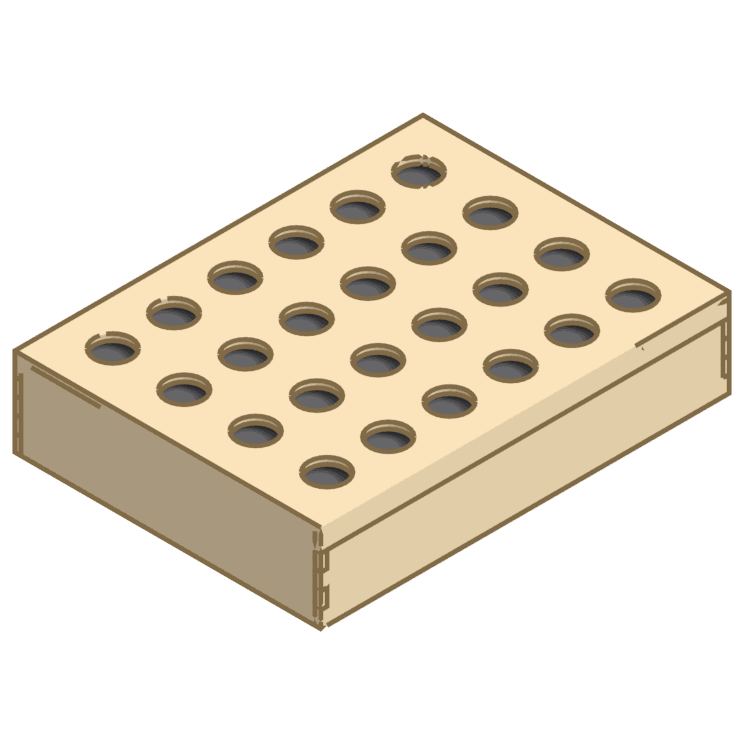
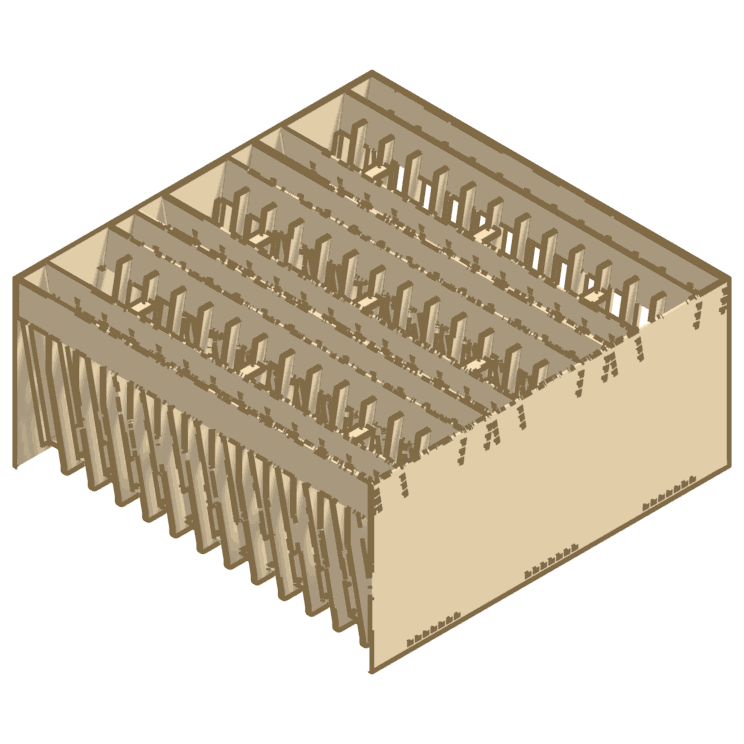
FanHole arms close, AirPurifier's one-filter top wall fans fit, CarbonFilter illustration from its assembly; DIN rail hook gap noted

diff --git a/scripts/illustrate/iso.py b/scripts/illustrate/iso.py
@@ -3,9 +3,13 @@
 Units are millimetres of the real object. All panels are plywood of thickness T.
 Axes: x to the right, y towards the back, z up. The camera looks from the front-left-top.
 """
+import json
 import math
+import os
+import subprocess
 import bpy
-from mathutils import Vector
+import bmesh
+from mathutils import Matrix, Vector
 
 T = 3.0  # material thickness used by every model
 
@@ -338,3 +342,41 @@ def render(path, elevation=35.264, azimuth=45, margin=1.12):
 
     scene.render.filepath = path
     bpy.ops.render.render(write_still=True)
+
+
+def pieces(pieces, color=WOOD):
+    """The app's assembled pieces (assembly.py's protocol): each ring set extruded by t and placed."""
+    for piece in pieces:
+        bm = bmesh.new()
+        edges = []
+        for ring in piece["rings"]:
+            verts = [bm.verts.new((u, v, 0)) for u, v in ring]
+            edges += [bm.edges.new((verts[i], verts[(i + 1) % len(verts)])) for i in range(len(verts))]
+        bmesh.ops.triangle_fill(bm, use_beauty=True, use_dissolve=False, edges=edges)
+        bmesh.ops.recalc_face_normals(bm, faces=bm.faces)
+        geom = bmesh.ops.extrude_face_region(bm, geom=bm.faces[:])
+        top = [v for v in geom["geom"] if isinstance(v, bmesh.types.BMVert)]
+        bmesh.ops.translate(bm, verts=top, vec=(0, 0, piece["t"]))
+        bmesh.ops.recalc_face_normals(bm, faces=bm.faces)
+        mesh = bpy.data.meshes.new("piece")
+        bm.to_mesh(mesh)
+        obj = bpy.data.objects.new("piece", mesh)
+        bpy.context.collection.objects.link(obj)
+        obj.data.materials.append(material(color))
+        U, V = Vector(piece["u"]), Vector(piece["v"])
+        N = U.cross(V) * piece["side"]
+        obj.matrix_world = Matrix(((U.x, V.x, N.x, piece["origin"][0]),
+                                   (U.y, V.y, N.y, piece["origin"][1]),
+                                   (U.z, V.z, N.z, piece["origin"][2]),
+                                   (0, 0, 0, 1)))
+
+
+def assembled(name, args=None):
+    """The generator as the app's 3D view assembles it (its decorations left out), from the bundled
+    Python in Runtime/: for an object easier to show as built than to model."""
+    root = os.path.join(os.path.dirname(os.path.abspath(__file__)), "..", "..")
+    code = ("import json, sys; sys.path.insert(0, 'LaserBox'); import bridge; "
+            "print(json.dumps(bridge.handle({'cmd': 'assemble', 'name': sys.argv[1], 'args': json.loads(sys.argv[2])})))")
+    out = subprocess.run([os.path.join(root, "Runtime/python/bin/python3"), "-s", "-B", "-c", code, name, json.dumps(args or {})],
+                         cwd=root, env={"PYTHONPATH": os.path.join(root, "Runtime/site")}, capture_output=True, text=True, check=True)
+    pieces([p for p in json.loads(out.stdout.splitlines()[-1])["pieces"] if "decoration" not in p])

diff --git a/LaserBox/assembly.py b/LaserBox/assembly.py
@@ -6569,8 +6569,9 @@ def AirPurifier(box, parts):
     return out
 
 
-def _airpurifier_fan_spots(box, n, h, l):
-    """The fans' centres on a wall h high, l long, as fanCB lays them out."""
+def _airpurifier_fan_spots(box, n, h, l, frames=True):
+    """The fans' centres on a wall h high, l long, as fanCB lays them out (the "top" wall, no frame
+    holes, has them in its middle: see bundle-runtime.sh)."""
     t, fh, d = box.thickness, box.filter_height, box.fan_diameter
     sides = box.fan_width if ((box.fans_left or box.fans_right) and (box.fans_top or box.fans_bottom)) else 10
     max_n = int((l - 2 * sides) // (d + 10))
@@ -6578,9 +6579,7 @@ def _airpurifier_fan_spots(box, n, h, l):
     if n <= 0:
         return []
     w = (l - 2 * sides) / n
-    posy = h / 2 if box.filters == 2 else (h + t + fh) / 2
-    if posy + d / 2 > h + 1:  # one filter: the "top" wall's holes run off its edge, no fan fits there
-        return []
+    posy = h / 2 if box.filters == 2 or not frames else (h + t + fh) / 2
     return [(sides + w / 2 + i * w, posy) for i in range(n)]
 
 
@@ -6589,10 +6588,10 @@ def _airpurifier_fans(box):
     """A fan inside each wall's fan hole, fan_width deep against the wall's inner face: its frame
     with the bore and a hub with seven blades."""
     d, depth, out = box.fan_diameter, box.fan_width, []
-    for place, n, h, l in _airpurifier_walls(box):
+    for k, (place, n, h, l) in enumerate(_airpurifier_walls(box)):
         inward = tuple(-place.side * c for c in _cross(place.U, place.V))
         at = Placement(_add(place.origin, inward, depth), place.U, place.V, place.side)
-        for cx, cy in _airpurifier_fan_spots(box, n, h, l):
+        for cx, cy in _airpurifier_fan_spots(box, n, h, l, frames=k > 0):
             r = 0.47 * d
             frame = rect(cx - d / 2, cy - d / 2, cx + d / 2, cy + d / 2).difference(Point(cx, cy).buffer(r, quad_segs=24))
             blades = [Polygon([(cx + rr * math.cos(math.radians(a + da)), cy + rr * math.sin(math.radians(a + da)))

diff --git a/scripts/illustrate/assembly_check.py b/scripts/illustrate/assembly_check.py
@@ -3,9 +3,6 @@ import json
 import os
 import sys
 
-import bmesh
-import bpy
-from mathutils import Matrix, Vector
 
 sys.path.insert(0, os.path.dirname(os.path.abspath(__file__)))
 import iso
@@ -16,29 +13,7 @@ os.makedirs(out, exist_ok=True)
 for f in files:
     data = json.load(open(f))
     iso.clear()
-    for piece in data["pieces"]:
-        bm = bmesh.new()
-        edges = []
-        for ring in piece["rings"]:
-            verts = [bm.verts.new((u, v, 0)) for u, v in ring]
-            edges += [bm.edges.new((verts[i], verts[(i + 1) % len(verts)])) for i in range(len(verts))]
-        bmesh.ops.triangle_fill(bm, use_beauty=True, use_dissolve=False, edges=edges)
-        bmesh.ops.recalc_face_normals(bm, faces=bm.faces)
-        geom = bmesh.ops.extrude_face_region(bm, geom=bm.faces[:])
-        top = [v for v in geom["geom"] if isinstance(v, bmesh.types.BMVert)]
-        bmesh.ops.translate(bm, verts=top, vec=(0, 0, piece["t"]))
-        bmesh.ops.recalc_face_normals(bm, faces=bm.faces)
-        mesh = bpy.data.meshes.new("piece")
-        bm.to_mesh(mesh)
-        obj = bpy.data.objects.new("piece", mesh)
-        bpy.context.collection.objects.link(obj)
-        obj.data.materials.append(iso.material(iso.WOOD))
-        U, V = Vector(piece["u"]), Vector(piece["v"])
-        N = U.cross(V) * piece["side"]
-        obj.matrix_world = Matrix(((U.x, V.x, N.x, piece["origin"][0]),
-                                   (U.y, V.y, N.y, piece["origin"][1]),
-                                   (U.z, V.z, N.z, piece["origin"][2]),
-                                   (0, 0, 0, 1)))
+    iso.pieces(data["pieces"])
     name = os.path.splitext(os.path.basename(f))[0]
     iso.render(os.path.join(out, name + ".png"))
     print("rendered", name)

diff --git a/scripts/illustrate/models/part7.py b/scripts/illustrate/models/part7.py
@@ -328,12 +328,8 @@ def CanStorage():
 
 @model
 def CarbonFilter():
-    # An activated-carbon cassette: a flat frame, the carbon fill sandwiched behind a perforated face.
-    W, D, H = 200, 150, 40
-    open_box(0, 0, 0, W, D, H, bottom=False)
-    box(T, T, 1, W - 2 * T, D - 2 * T, H - 4, DARK)         # the carbon
-    face = floor(0, 0, H, W, D)
-    round_holes(face, [(25 + i * 30, 22 + j * 35, H) for i in range(6) for j in range(4)], 9)
+    # The V-shaped filter pockets between their end plates: shown as the app assembles them.
+    assembled("CarbonFilter")
 
 
 @model

diff --git a/3D-REVIEW.md b/3D-REVIEW.md
@@ -18,7 +18,6 @@ pezzi di test, pezzi e campioni, "Varie"), le decorazioni e l'esploso. Per ognun
   collegamento tra un segmento e l'altro.
 - **Planetary** con `deltateeth`: la seconda corona e i suoi satelliti stanno nello strato sopra,
   sulle stesse posizioni, senza calcolarne l'ingranamento.
-- **Pulley**: il generatore disegna un solo bordo (`top`), che metto sopra; sotto non c'è.
 - **SkadisStand**: il generatore disegna un solo piede, il pannello ne vuole due: ne mostro uno.
 - **OttoBody**: i due PCB_Clamp, il PCB_Clip e la piastrina 15×15 del pulsante sono lasciati fuori: non hanno incastri né fori corrispondenti nel corpo, quindi non si sa dove vanno (probabilmente tengono l'Arduino nella testa).
 - **PhotoFrame**: la "Photo" che il generatore disegna è solo una sagoma (niente da tagliare): non è piazzata come parte, la foto è mostrata come decorazione di carta. Il vetro non è mostrato (non è tagliato e non c'è un tipo di decorazione per il vetro).
@@ -61,9 +60,6 @@ pezzi di test, pezzi e campioni, "Varie"), le decorazioni e l'esploso. Per ognun
   coperchio (pezzi rotti).
 - **WallPliersHolder**: i rinforzi interni sono centrati dove il generatore mette i fori, mezzo
   spessore fuori dal confine tra gli scomparti.
-- **FanHole**: i bracci della girandola restano aperti di 0,34 mm (diametro 80): li chiudo come fori.
-  Con diametri piccoli (40 mm, 10 bracci) i bracci del generatore si incrociano e alcuni fori si
-  fondono.
 - **RobotArm**: con i valori predefiniti il generatore non disegna nulla. Ho messo come predefiniti
   dell'app due segmenti (Mm e Mu): cambia anche il disegno 2D.
 - **DisplayShelf** con angolo negativo: i divisori, perpendicolari al ripiano inclinato,
@@ -80,7 +76,6 @@ pezzi di test, pezzi e campioni, "Varie"), le decorazioni e l'esploso. Per ognun
 - **OttoBody**: il foro da 2 mm del supporto servo destro (per l'interruttore) cade per metà fuori dal pezzo (il pezzo è lungo y - 5.6, il foro è a y - 5): il dischetto staccato è scartato.
 - **CanStorage**: con top_edge "e" il FrontEdge comincia con un salto (moveTo), quindi il contorno dei fianchi resta aperto (due tagli aperti) e il pezzo sparirebbe. Ho chiuso il contorno a mano: il bordo superiore tagliato dove comincia il fronte, poi il fronte (passato come `plate=`). Verificare che la forma sia quella attesa.
 - **CarbonFilter**: le costole esterne (outerRibs) hanno il contorno non chiuso per uno scarto di 0,3–1,2 mm che cresce con l'angolo a (con x=550, h=250, 3 tasche si chiude, con 2 tasche o x diversi no), e la riga di costole deriva leggermente. Le ho chiuse io (Polygon + buffer(0)) e passate come `plate=` con `keep` che scarta tutto: funziona, ma così `piece_roles` le salta (niente ruolo per le etichette).
-- **CarbonFilter**: `Runtime/samples/CarbonFilter.png` mostra una scatola con un coperchio a fori tondi, che non c'entra con questo filtro: l'illustrazione di esempio sembra sbagliata.
 - **AgricolaInsert**: il distanziale basso del vassoio delle carte sta a 0,15 mm dalla parete a pettine (i fori sono a spacer_spacing − t/2 con spacer_spacing = larghezza − 99,8 = 3,15): l'ho messo lì, quasi a contatto.
 - **AgricolaInsert**: la parete inclinata del vassoio delle carte non tocca il piano (il centro dei fori parte a sin·t/2): il piede resta sollevato di circa mezzo millimetro, come dice anche il commento del generatore.
 - **AgricolaInsert**: dei piedini triangolari dei separatori mobili il generatore chiude solo il primo triangolo (il secondo condivide l'ipotenusa e resta un taglio aperto): ho usato lo stesso triangolo due volte, uno per lato.
@@ -95,8 +90,12 @@ pezzi di test, pezzi e campioni, "Varie"), le decorazioni e l'esploso. Per ognun
 - **Clock**: le tacche della gamba posteriore sono larghe t − burn ma i ripiani sono spessi t: incastro forzato, mostrato centrato.
 - **PizzaShovel**: `gripCB(top=True)` va alla traversa da 40, che però i fori dei fianchi mettono in basso, accanto alla pala; quella da 80 (top=False) va in alto. Ho seguito i fori (come nella foto).
 - **MagazineFile**: i due fianchi sono disegnati nello stesso pezzo, il secondo dopo un `moveTo(y + 15, h + hi + 15, 180)` (girato di mezzo giro). Li ho separati ricostruendo quella trasformazione: se il generatore cambia l'ordine o gli spostamenti, il secondo fianco va fuori posto.
+- **Guida DIN** (tutti i 16 generatori da parete, `walltype` dinrail): il gancio (`DinRailEdge`,
+  sezione 0) finisce 1 mm dentro il pezzo rispetto a dove comincia, quindi il resto del bordo corre
+  1 mm più in dentro e il contorno del pezzo resta aperto di 1 mm (0,9 in WallCaliper e WallHook):
+  tagliato non si stacca dal foglio, e nel 3D quei pezzi spariscono. Non corretto: per chiuderlo va
+  scelto quale tratto del gancio è sbagliato (l'ultimo ".5" in salita, o il dente lungo d − 4).
 - **AirPurifier**: la parete che il generatore chiama "top" è alta d, ma lo spazio tra i due telai interni (o, con un filtro, tra il telaio e la piastra di chiusura) è d + 2: l'ho messa 1 mm sopra il telaio inferiore (due filtri) o contro la piastra di chiusura (un filtro).
-- **AirPurifier**: con un solo filtro i fori dei ventilatori della parete "top" sono centrati a (d + t + fh)/2 su una parete alta d, quindi escono dal suo bordo: lì non metto ventilatori nella decorazione.
 - **Ramp**: tra la cima della parete verticale e la diagonale resta un piccolo cuneo vuoto (la diagonale arriva al filo esterno della parete verticale, t/cos a oltre lo spigolo interno); al piede la diagonale scende fino a terra davanti al fondo. Come da generatore.
 - **CoinBankSafe**: il foro della cerniera del coperchio è disegnato dal secondo callback, cioè all'inizio del bordo destro (vicino a u = y), mentre quello del fondo è vicino a u = 0: ho girato il coperchio sottosopra perché i due fori stiano uno sopra l'altro.
 - **CoinBankSafe**: la maniglia è una pinna piena (1,5t × 8t con la linguetta nella fessura dello sportello), senza foro per le dita: così la disegna il generatore.
@@ -121,9 +120,8 @@ pezzi di test, pezzi e campioni, "Varie"), le decorazioni e l'esploso. Per ognun
   lontano dal muro, così trattiene l'asse quando si tira la carta. Il tassello ora è lungo quanto `width`, fra i bracci (prima li attraversava).
 - **RollHolder** (unisce RollHolder e WallRollHolder di boxes.py, `bridge.RollHolder`): con il tipo
   di parete "avvitato al muro" disegna il RollHolder originale, con gli altri il WallRollHolder.
-  `screw_holes` e `one_piece` contano solo avvitato. Con la guida DIN il contorno del braccio
-  disegnato dal generatore resta aperto di 1 mm (non si staccherebbe dal foglio) e nel 3D i bracci
-  non compaiono: non corretto.
+  `screw_holes` e `one_piece` contano solo avvitato. Con la guida DIN i bracci non compaiono nel
+  3D: vedi il punto sulla guida DIN tra le incongruenze del generatore.
 - **WallSlottedHolder / WallChiselHolder / RollHolder**: i triangoli di rinforzo sono disegnati
   annidati in un unico pezzo; li separo riconoscendoli dagli ingombri. Funziona con tutti i tipi di
   muro provati, ma è euristico.
@@ -374,5 +372,4 @@ pezzi di test, pezzi e campioni, "Varie"), le decorazioni e l'esploso. Per ognun
 - Modelli da parete e DrillStand: compilati, avviati e pushati; da provare nell'app.
 - Motivi di fori e pezzi di test (nuova categoria "Test", ultima): compilati e avviati; da provare nell'app.
 - Pezzi e campioni: compilati e avviati; da provare nell'app.
-- "Varie" (53 modelli): compilati e avviati; da provare nell'app. LaptopStand è girato di 25° nella
-  galleria (TURN) perché un triangolo non si veda di taglio: verificare il verso.
+- "Varie" (53 modelli): compilati e avviati; da provare nell'app.
